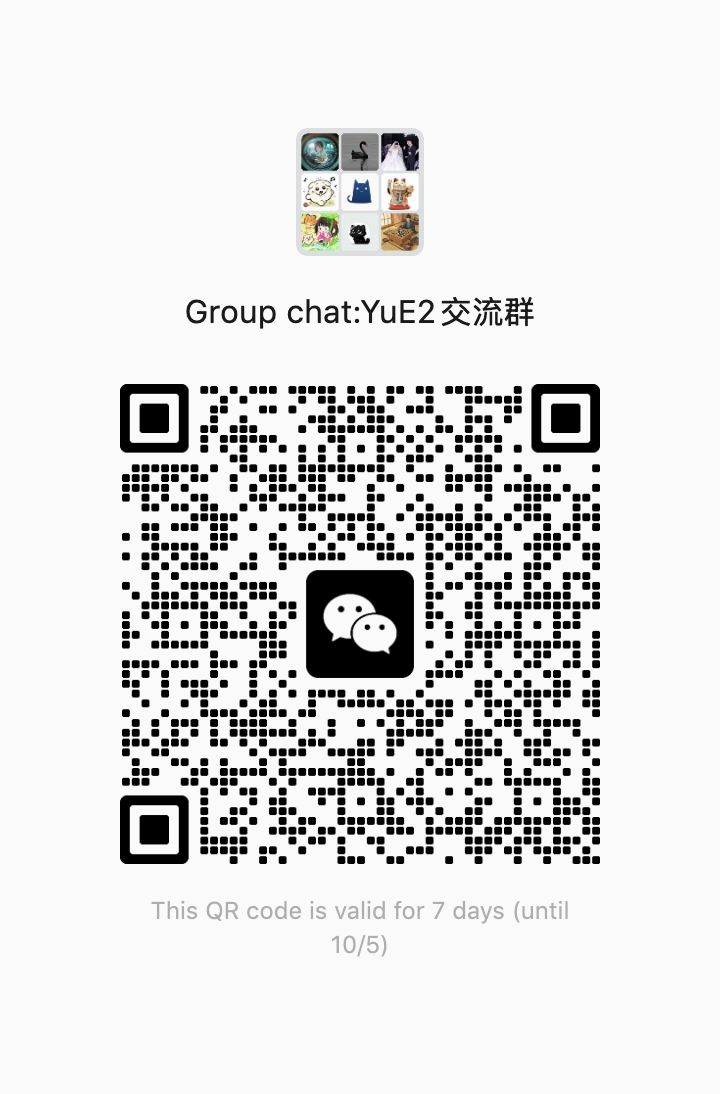
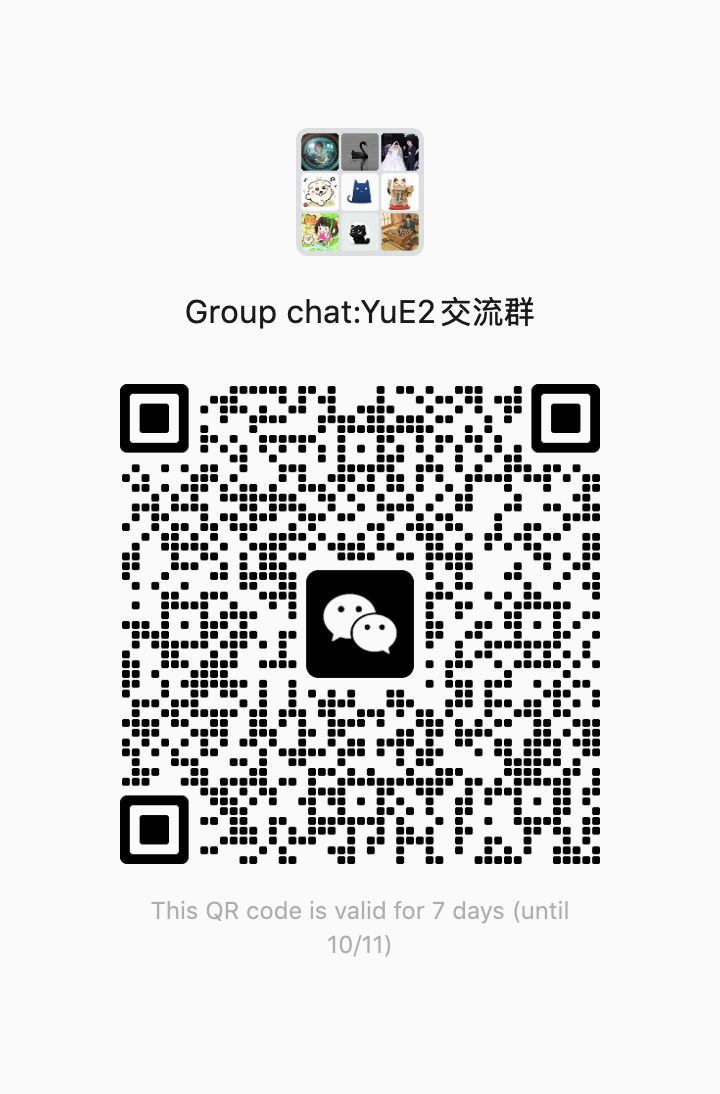
docs: refresh WeChat QR code valid through October 11

Changed region(s): [[0.1528, 0.3419, 0.8556, 0.808], [0.4583, 0.8391, 0.55, 0.8702], [0.6722, 0.3419, 0.7028, 0.3729]]

diff --git a/README.md b/README.md
@@ -356,7 +356,7 @@ For the original **[MERT](https://arxiv.org/abs/2306.00107)** and **[YuE](https:
         <a href="assets/wechat-yue2-group.png">
           <img src="assets/wechat-yue2-group.png" alt="YuE2 WeChat group QR code" width="240" />
         </a><br>
-        <sub>Click to enlarge<br>Valid until Oct 5, 2026</sub>
+        <sub>Click to enlarge<br>Valid until Oct 11, 2026</sub>
       </details>
     </td>
   </tr>
